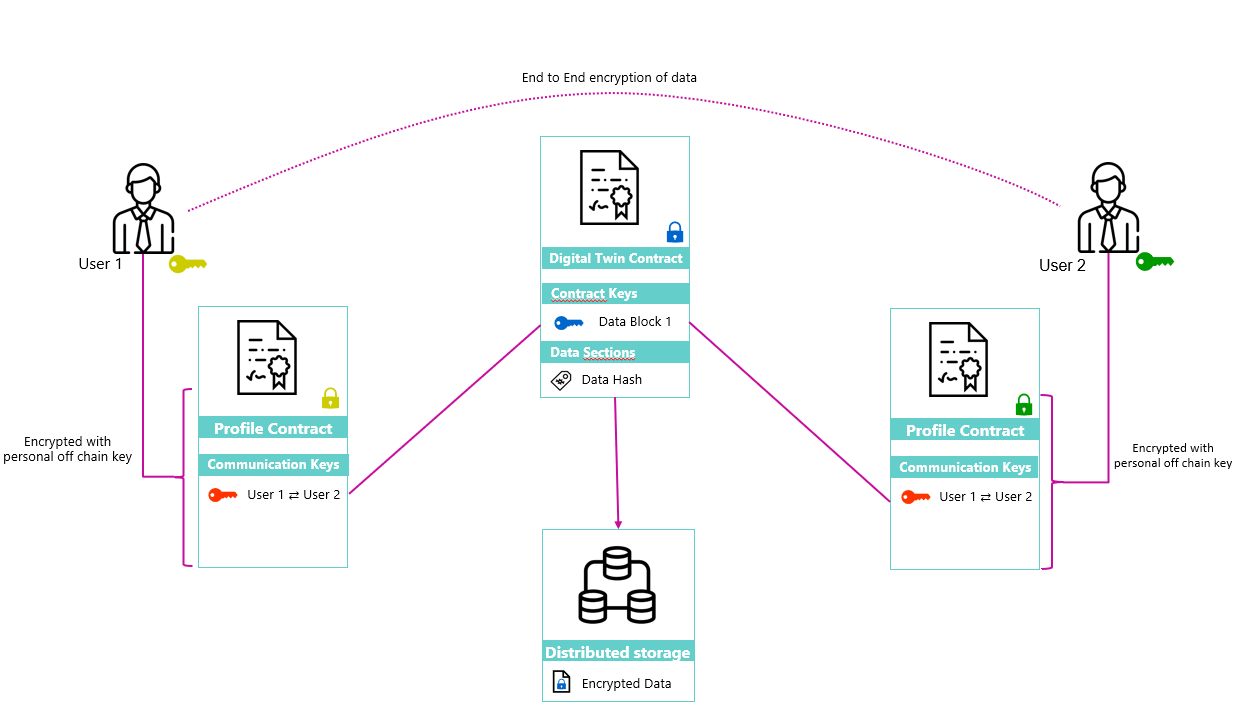
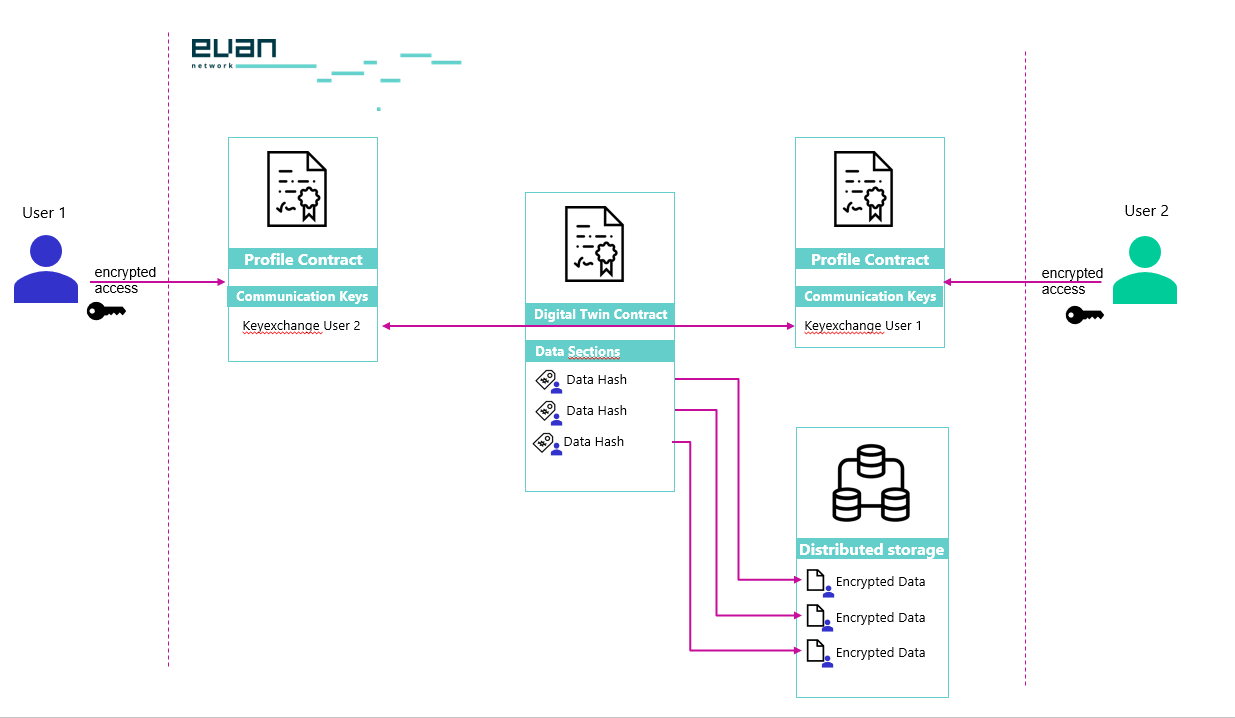
adjust data security and privacy

diff --git a/doc/gdpr.md b/doc/gdpr.md
@@ -1,31 +1,37 @@
 ---
-Title: "GDPR Compliance"
+Title: "Data Security and Privacy"
 ---
-# evan.network GDPR compliance
+# evan.network Data Security and Privacy
 
-evan.network successfully provides an answer to the controversial question of how a blockchain solution can remain in compliance with GDPR regulations.
+The benefit of DLT is that every participant can proof transactions, which represents an issue for privacy and security. This is because in a public chain, everybody can read the transaction and the processed data. Most enterprises tend to use no public ledgers for that reasons and plan to use private ledgers. However, the problem is not solved with private chains alone, because the business partners of the chains can read and understand all transactions. So it is rather a feeling of security, because the partners are in most cases external companies.
 
-Per blockchains nature, nothing is ever forgotten as transactions are stored indefinitely. 
+At evan.network, we have built an integrated data security and privacy layer. Every identity at evan has an on-chain key store to encrypt and decrypt transactions on identity and smart contract level. So transactions that are processed in the chain at the nodes are fully encrypted and can only be decrypted from invited participants. The whole key management and key exchange is on-chain, so a manual key exchange is not needed anymore to communicate with business partners. 
+
+[![profile keys and encryption](/public/profile_keys.png){:class="center"}](/public/profile_keys.png) 
 
 Personal data is encrypted with a key only known to the author of this piece of information. The encrypted data is then stored in a [distributed file system](/dev/ipfs) and the author can decide to delete it at any time. Only a reference to the data in the encrypted file system is stored in the blockchain and neither transactions nor the smart contracts themselves contain personal data. This could be done via a custom solution, but such and approach is not part of the provided API and of course it is not advised to do so for obvious reasons.
 
 All accounts have a profile in which they store keys they use for communicating and sharing keys for encrypted data with other accounts. This profile itself is encrypted with a key the user holds off-chain and only known to the user. Keys for data in smart contracts are stored at the smart contract and encrypted per party the keys are shared with.
 
-[![profile keys and encryption](/public/profile_keys.png){:class="center"}](/public/profile_keys.png)
+When storing personal data on the blockchain the data would be persisted forever in the smart contract and a deletion would be not possible. On evan.network this data is not stored directly on the blockchain. The personal files are encrypted on the client itself and then uploaded a distributed file system. The filesystem returns a unique hash to directly access the uploaded data. Now only this hash as a reference to the data is stored in the smart contract. This implicates that the owner of the data has the full control about his assets and is also able to delete his data store assets. 
 
-This leads to some advantages security wise:
-- only references to encrypted data is stored in the blockchain and not the encrypted data itself
-- additionally, theses references are encrypted as well to prevent hoarding of encrypted data if hoping for later mass decryption
-- encrypted data is shared only **intentionally** with other parties, keys to the encrypted data can be stored encrypted and made accessible to selected parties
-- data stored in the distributed file system has a limited time to life and will be deleted when this has expired
+Now all references to the encrypted data are public visibile to everyone who's validating and inspecting the blockchain. This would enable data hoarding by third parties with the intention of a mass decryption of these data elements if the currently used encryption algorithm is broken. To prevent this, all referenced hashes are encrypted as well before they are stored into a smart contract or any other element in the blockchain.
 
-Only sources account id, targets account id and types of can be deduced via transactions:
+The security mechanism with the encryption of the files and sharing of the keys's to these files ensures the all data is shared only **intentionally** with other parties.
+
+## What can be deduced from the transactions
+
+If anyone inspects the blockchain transactions, they can deduce the following attributes/elements:
+- The source accountid which has sent the transaction
+- The target accountid/smart contract where the transaction has been sent to
 - if source or target belong to a known business partner, an action can be linked to this partner (though business partner are not forded to use only one account for all actions)
 - if the smart contract called has a well known interface (e.g. `DataContracts`), the type of transaction can be deduced (e.g. in `DatacContracts`, the setting of a property could be deduced, but not which property if not having any more info about the use case of the contract and the transaction)
-
-[Authority Nodes](/doc/authoritynode) on the network are verified and known organizations.
 
 Your data is therefore never processed by anonymous parties but handled by trusted network actors. 
 By means of our privacy mechanisms, we can render data stored on the distributed file system as well as smart contracts inaccessible, satisfying the ‘right to erasure’ directive.
 
-Additionally, our API enables you to build GDPR compliant decentralized applications. 
+## GDPR compliance
+
+The combination of the blockchain with the distributed file system enables users to develop GDPR compliant DApps on the evan.network. The user itself has the full control of the data which is stored on the distributed file system. He can delete all uploaded data which is uploaded from his account.
+
+In summary, the evan.network has widely developed security concepts and is thus the first blockchain that enables the development of GDPR-compliant applications.

diff --git a/_includes/_Sidebar.md b/_includes/_Sidebar.md
@@ -14,7 +14,7 @@
 - [Smart Contract Templates](/dev/deployment)
 - [Stable Transaction Fees](/doc/eve)
 - [Enterprise Blockchain](/doc/enterprisechain)
-- [GDPR Compliance](/doc/gdpr)
+- [Data Security and Privacy](/doc/gdpr)
 
 ### [Infrastructure](/doc/architecture)
 - [Digital Twins](/dev/digital-twin)
